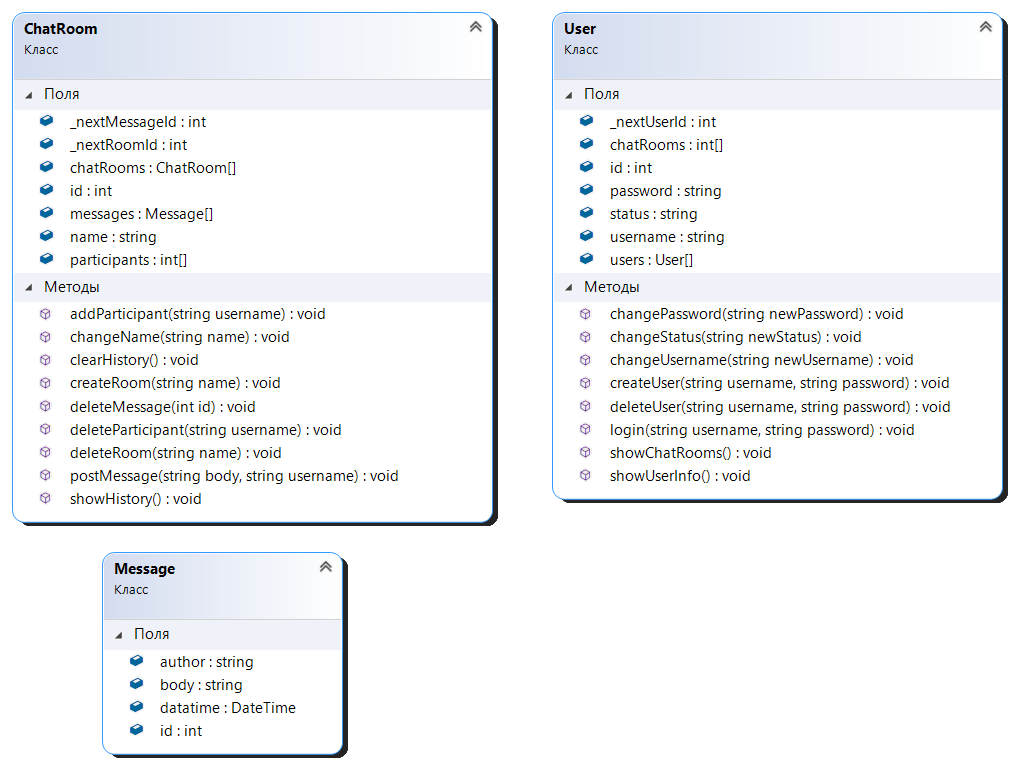
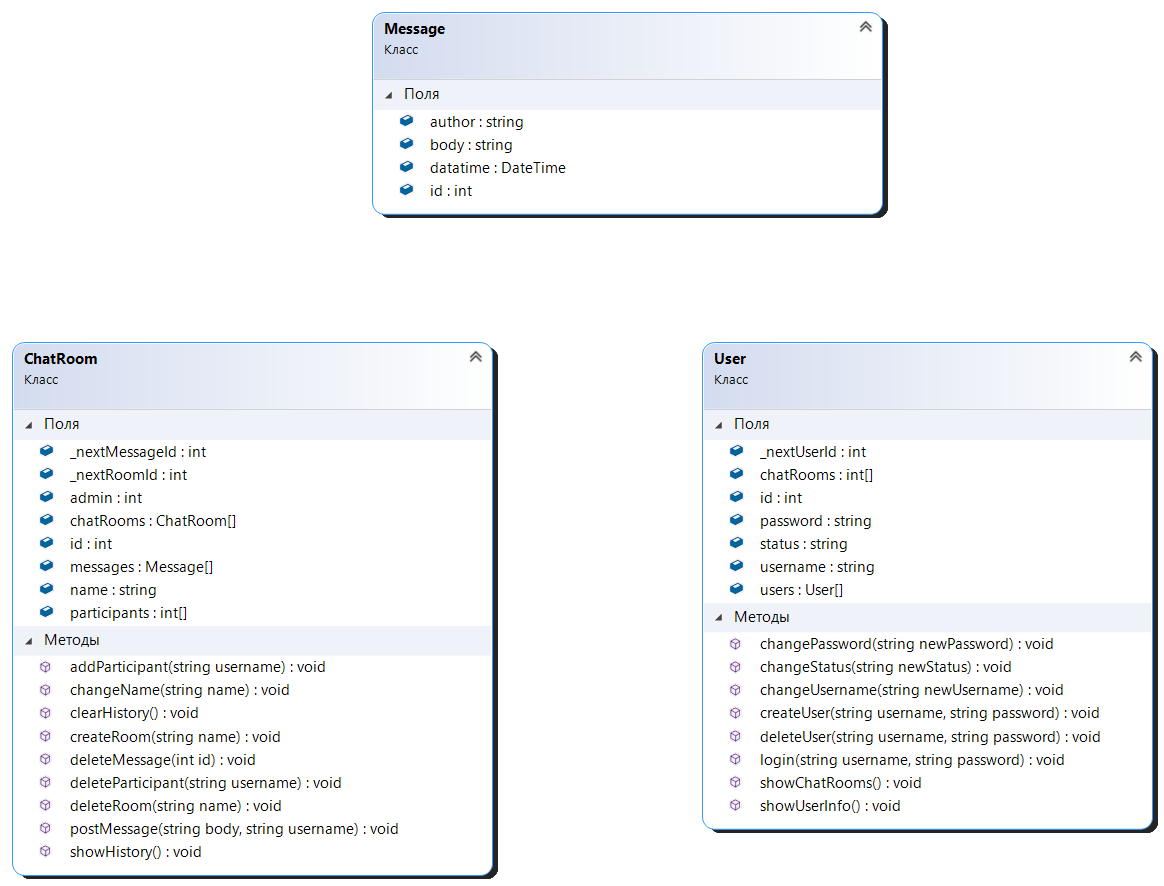
add admin to chatroom

Changed region(s): [[0.0, 0.0, 1.0, 0.9922]]

diff --git a/Models/ChatRoom.cs b/Models/ChatRoom.cs
@@ -10,6 +10,7 @@ namespace Messenger {
 
         public int id;
         public string name;
+        public int admin;
         public Message[] messages;
         public int[] participants;
 
